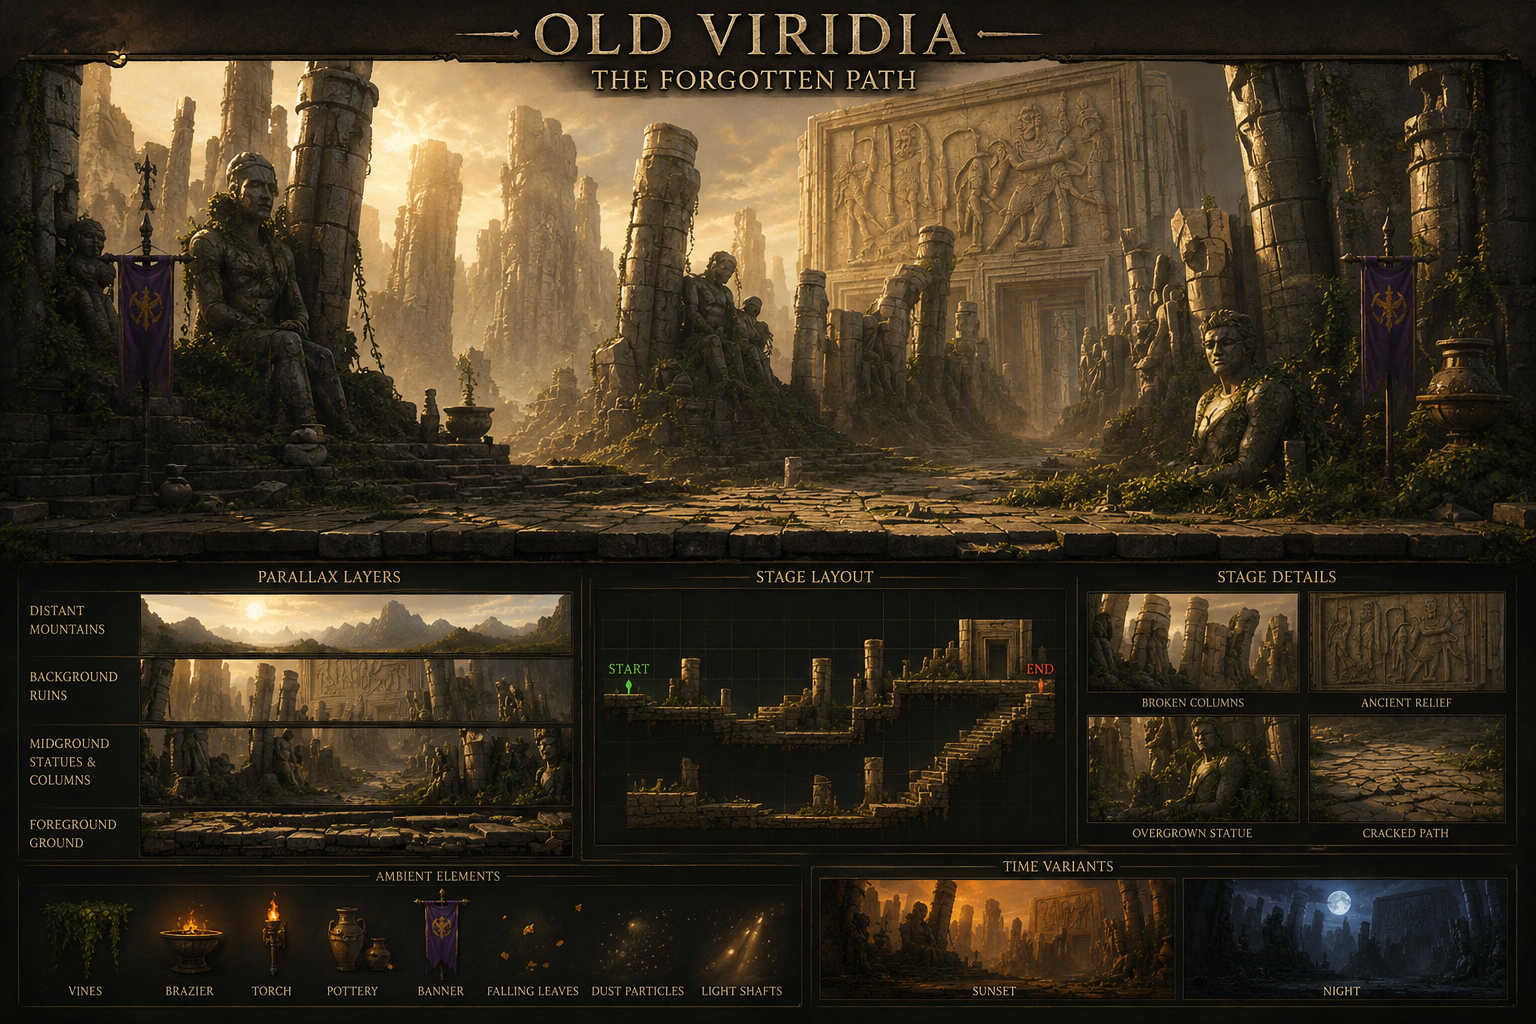
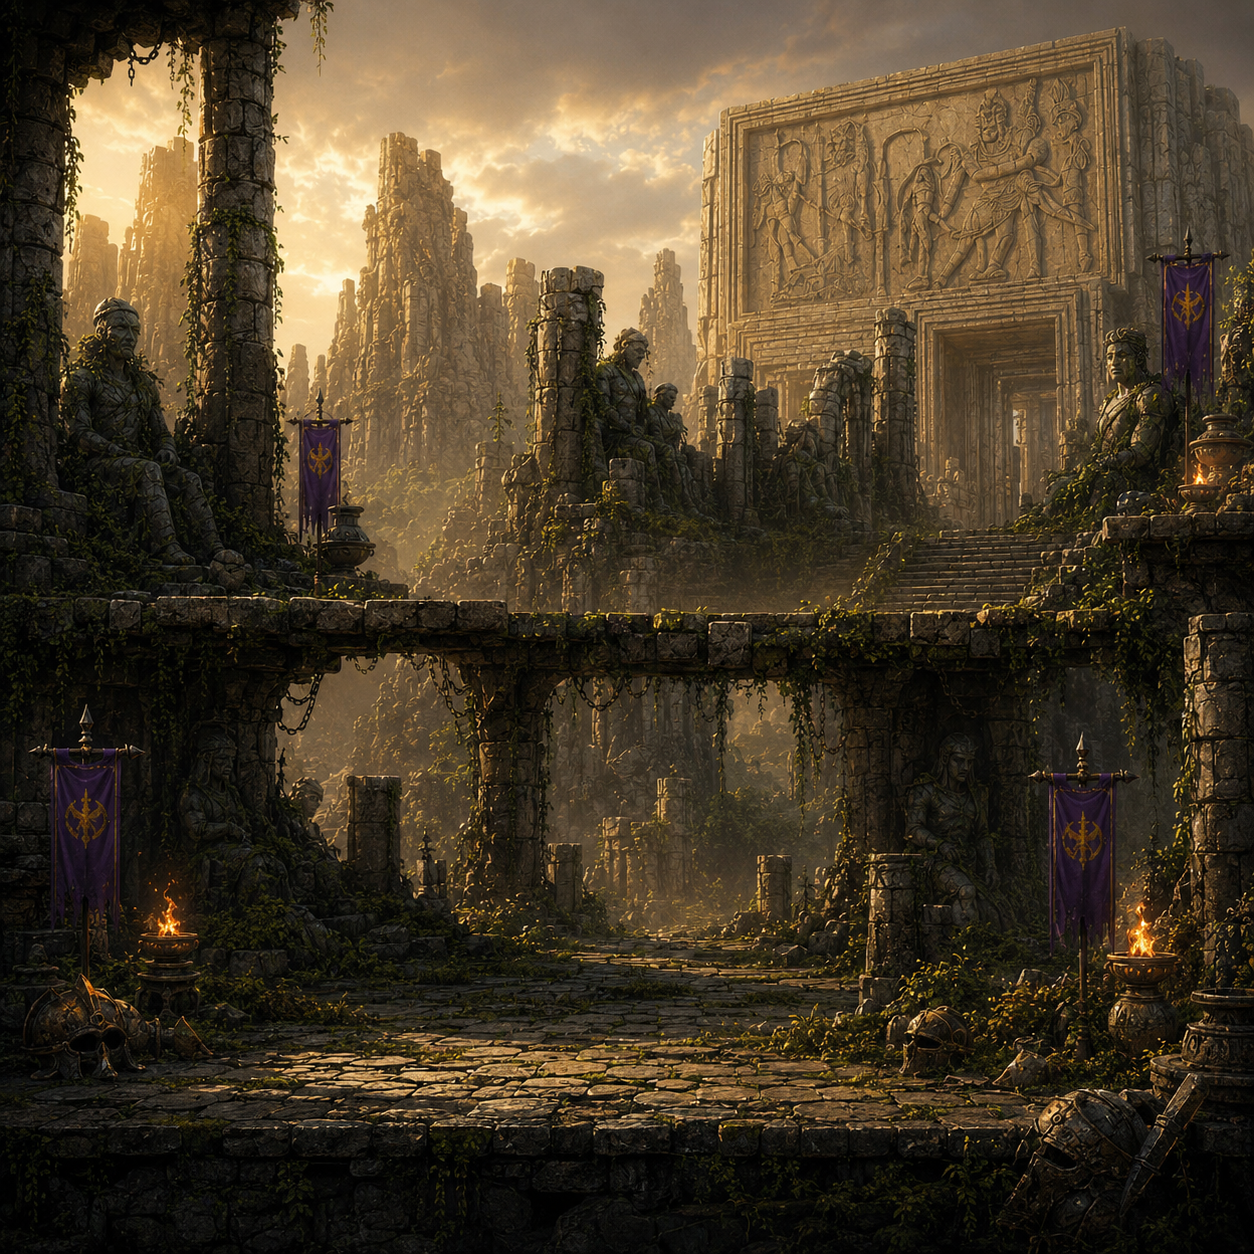
feat(realms): new 1:1 Old Viridia map + remove placeholder tile blocks
NEW MAP
- User dropped a square 1254x1254 Old Viridia map (sunset temple
  ruins, built-in stone platforms, columns, purple banners on side
  stakes — same composition pattern as the new Blizzard Canyon).
- Adventure background swapped from the old strip-crop with
  tiled-1.5x parallax approach to a simple full-image stretch
  with 0.25x parallax tiling. The new map is one composed scene
  not a strip, so the old crop+repeat logic was wrong for it.
- Top-fade gradient softened (90px -> 80px) since the new map's
  sunset sky already provides natural contrast for the HUD.

PLACEHOLDER TILES REMOVED
- Stopped rendering the green ground tiles (#) and purple platform
  tiles (=) as colored rectangles. Those were dev placeholders that
  were covering the art.
- LEVEL_1 array collision geometry preserved — Solion still walks
  and jumps against the invisible tile grid. The map art now
  carries 100% of the visual.
- Tile-render loop commented out with note for easy re-enable if
  level design needs to re-tune collision against the art's
  natural platform heights.

KNOWN: the LEVEL_1 collision heights were tuned to the OLD
procedural background, so Solion may land/stand at positions that
don't perfectly line up with the new art's natural ground / temple
steps. Level-design re-tune is a follow-up task.

diff --git a/realms.html b/realms.html
@@ -1848,24 +1848,21 @@ function advDraw() {
   const cv = $('adv-canvas');
   const ctx = cv.getContext('2d');
   ctx.imageSmoothingEnabled = false;
-  // Background — Old Viridia parallax. Source 1536x1024; the top art region
-  // (~y 30-630) is the playable scene before the reference panels. Scroll at
-  // 0.3x camera speed so the ruins drift behind the foreground.
+  // Background — Old Viridia (1254x1254 square arena, designed for the chassis
+  // viewport, no built-in HUD). Draw full image stretched to canvas with a slow
+  // horizontal parallax of the SAME image as the player runs, so the world feels
+  // wider than one screen even though the source is one composed scene.
   if (viridiaReady) {
-    const sw = ARENA_VIRIDIA.naturalWidth, sh = 600;   // top art band
-    const sy = 30;
-    // Parallax: tile horizontally so longer levels stay covered
-    const parallaxX = -a.camera.x * 0.3;
-    const tileW = CANVAS_W * 1.5;   // 1.5× wider so we see slow scroll
-    const offset = ((parallaxX % tileW) + tileW) % tileW - tileW;
-    for (let x = offset; x < CANVAS_W; x += tileW) {
-      ctx.drawImage(ARENA_VIRIDIA, 0, sy, sw, sh, x, 0, tileW, CANVAS_H);
+    const parallaxX = -a.camera.x * 0.25;
+    const offset = ((parallaxX % CANVAS_W) + CANVAS_W) % CANVAS_W - CANVAS_W;
+    for (let x = offset; x < CANVAS_W; x += CANVAS_W) {
+      ctx.drawImage(ARENA_VIRIDIA, 0, 0, ARENA_VIRIDIA.naturalWidth, ARENA_VIRIDIA.naturalHeight, x, 0, CANVAS_W, CANVAS_H);
     }
     // Soft top fade so the HUD sits on a darker band
-    const topFade = ctx.createLinearGradient(0, 0, 0, 90);
+    const topFade = ctx.createLinearGradient(0, 0, 0, 80);
     topFade.addColorStop(0, 'rgba(5,3,16,0.55)');
     topFade.addColorStop(1, 'rgba(5,3,16,0)');
-    ctx.fillStyle = topFade; ctx.fillRect(0, 0, CANVAS_W, 90);
+    ctx.fillStyle = topFade; ctx.fillRect(0, 0, CANVAS_W, 80);
   } else {
     // Fallback procedural sky if the image hasn't loaded
     const sky = ctx.createLinearGradient(0, 0, 0, CANVAS_H);
@@ -1874,32 +1871,13 @@ function advDraw() {
     sky.addColorStop(1, '#0a1812');
     ctx.fillStyle = sky; ctx.fillRect(0, 0, CANVAS_W, CANVAS_H);
   }
-  // Tiles
-  for (const s of a.solids) {
-    const sx = s.x - a.camera.x, sy = s.y - a.camera.y;
-    if (sx < -ADV_TILE || sx > CANVAS_W || sy < -ADV_TILE || sy > CANVAS_H) continue;
-    if (s.kind === '#') {
-      // Ground tile — dark earth with grass top
-      const g = ctx.createLinearGradient(sx, sy, sx, sy + ADV_TILE);
-      g.addColorStop(0, '#5a8a4a');
-      g.addColorStop(0.15, '#3a5a2a');
-      g.addColorStop(1, '#1a2812');
-      ctx.fillStyle = g;
-      ctx.fillRect(sx, sy, ADV_TILE, ADV_TILE);
-      ctx.strokeStyle = 'rgba(0,0,0,0.3)';
-      ctx.strokeRect(sx + 0.5, sy + 0.5, ADV_TILE - 1, ADV_TILE - 1);
-    } else if (s.kind === '=') {
-      // Platform — stone-like
-      const g = ctx.createLinearGradient(sx, sy, sx, sy + ADV_TILE);
-      g.addColorStop(0, '#c8c2dc');
-      g.addColorStop(0.4, '#6f6582');
-      g.addColorStop(1, '#3a3050');
-      ctx.fillStyle = g;
-      ctx.fillRect(sx, sy + 6, ADV_TILE, ADV_TILE - 6);
-      ctx.strokeStyle = 'rgba(232, 200, 120, 0.6)';
-      ctx.strokeRect(sx + 0.5, sy + 6.5, ADV_TILE - 1, ADV_TILE - 7);
-    }
-  }
+  // Tiles — collision geometry only, NOT drawn (the Old Viridia map art has its
+  // own natural ground/platforms baked into the painting; placeholder green +
+  // purple boxes hidden the art and felt like dev tiles). LEVEL_1 array still
+  // defines where Solion can walk/stand; the map art carries the visuals.
+  // (Uncomment the loop below for debug-tile overlay if level design needs
+  // re-tuning to match the art's natural platform heights.)
+  // for (const s of a.solids) { ... }
   // Goal portal — Astral Portal (pulsing gold ring on a stand)
   if (a.goal) {
     const gx = a.goal.x - a.camera.x + a.goal.w / 2;
